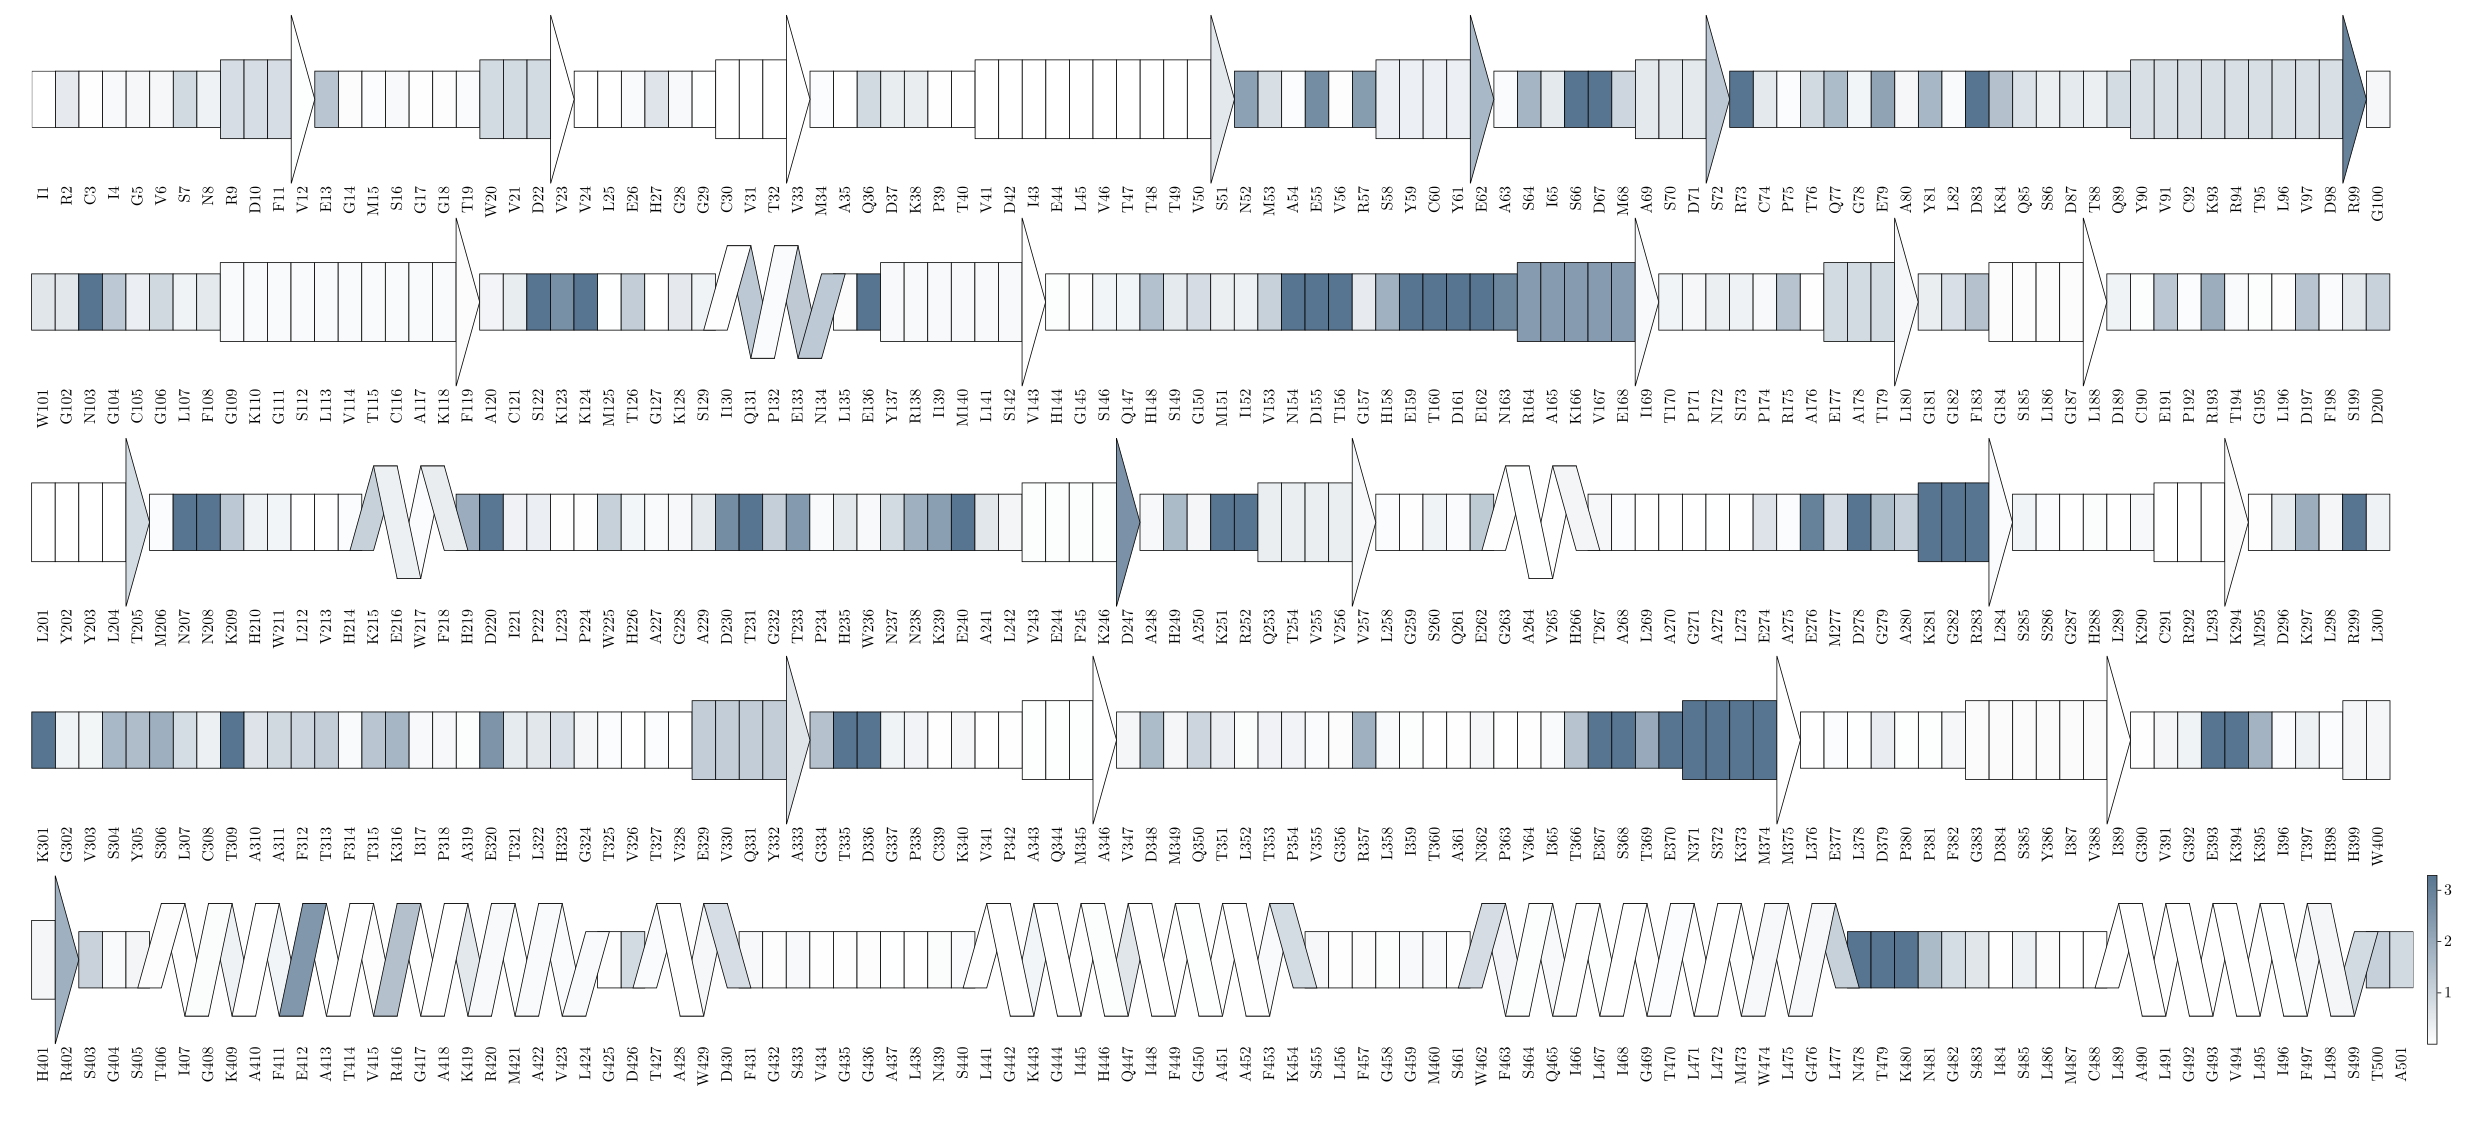
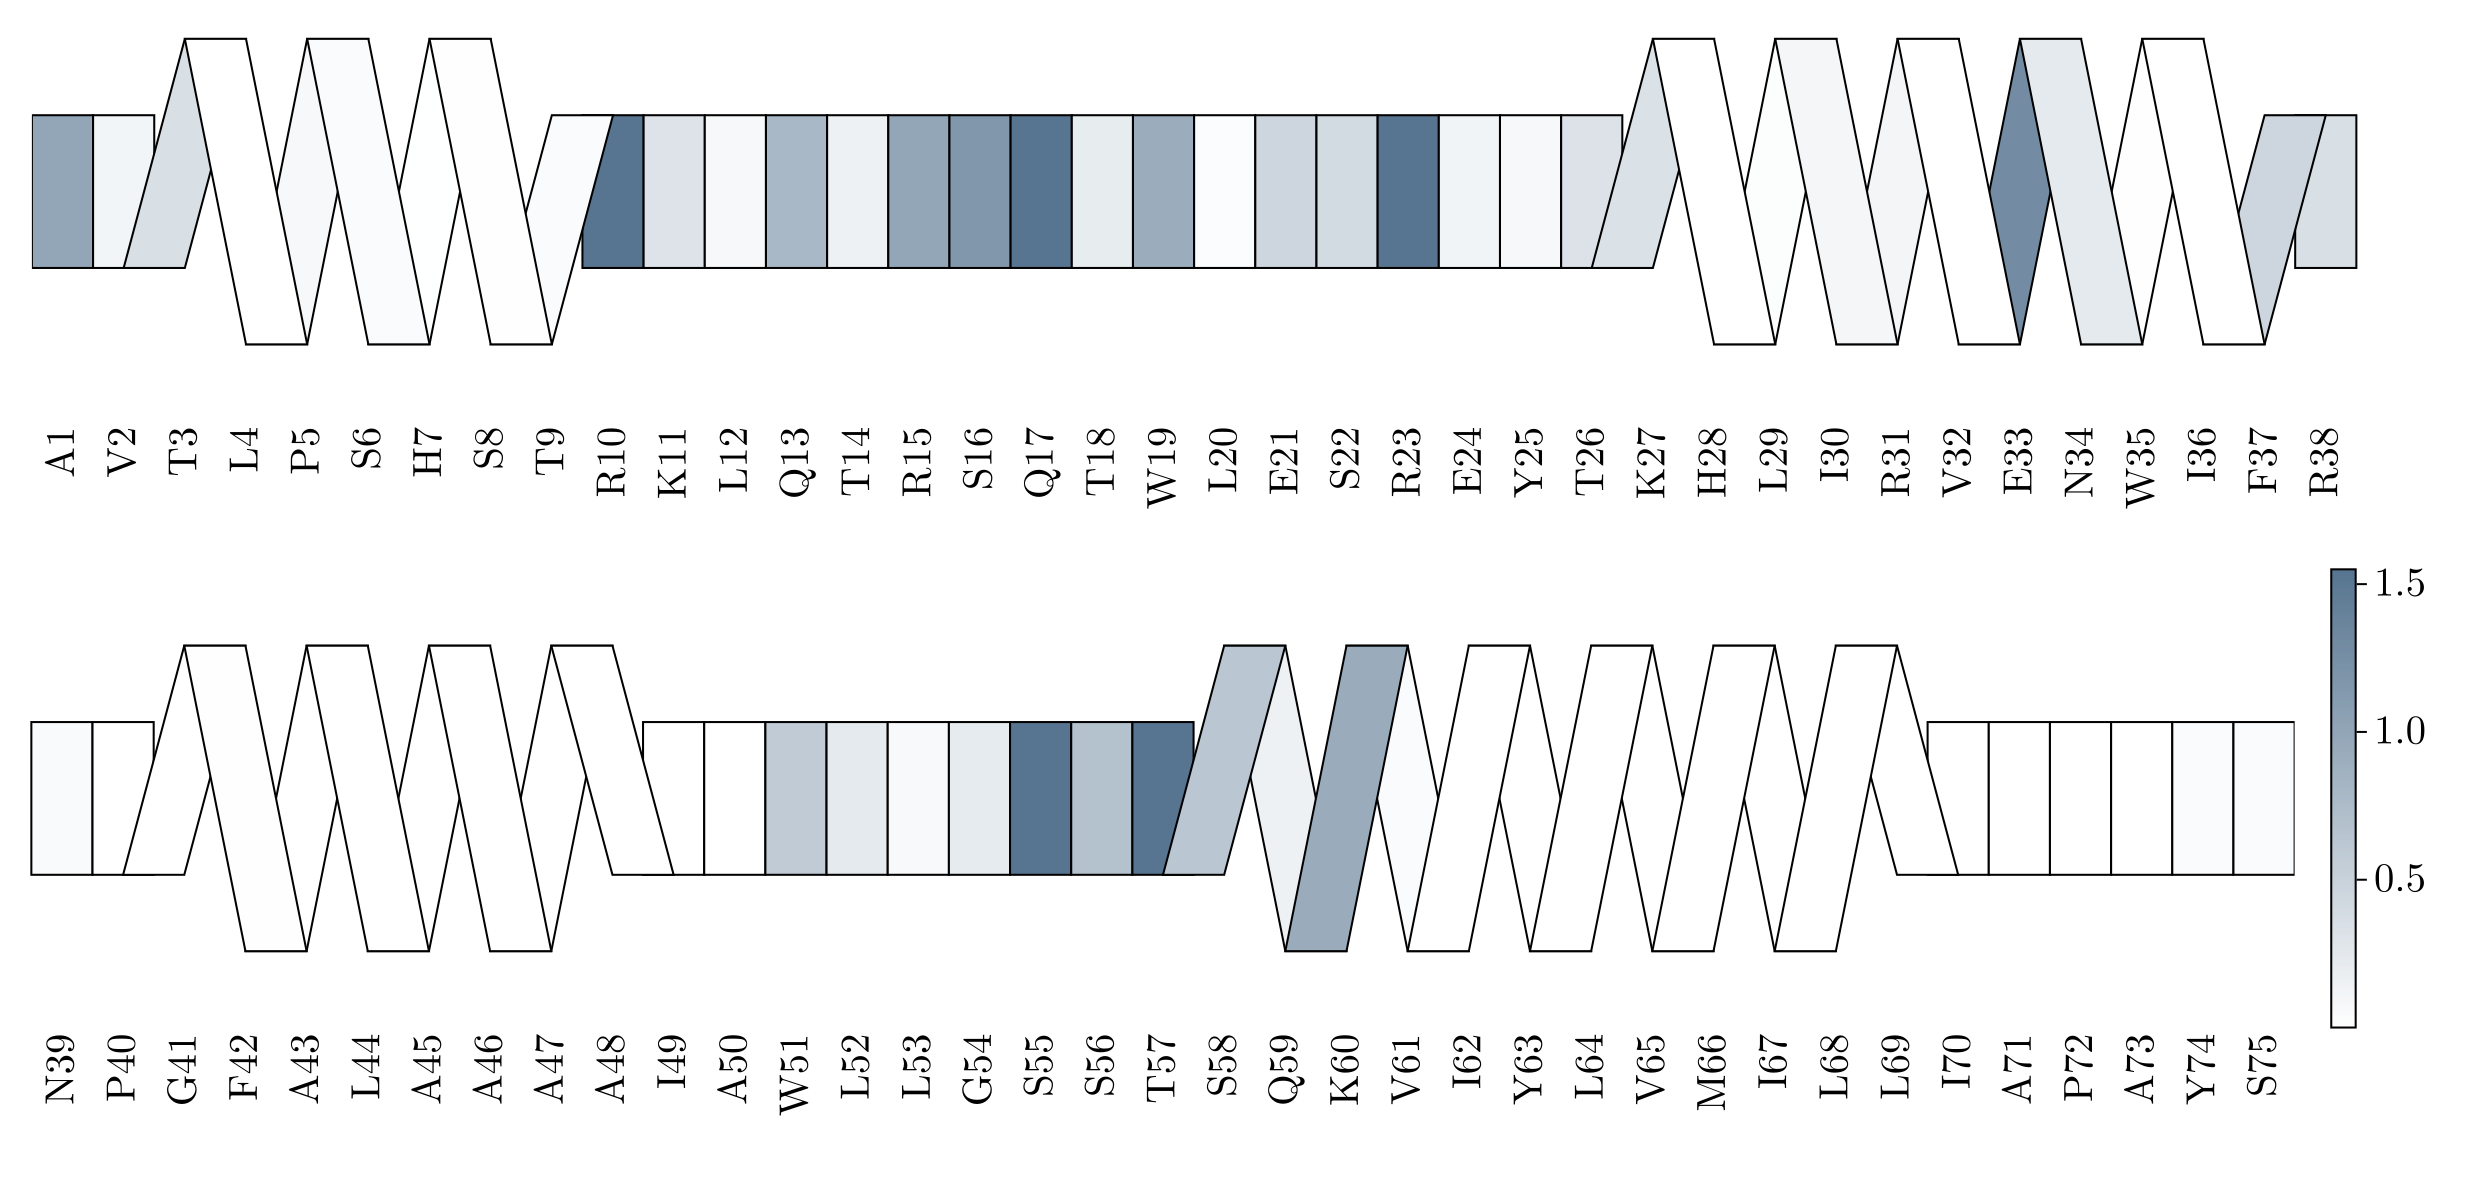
Updated figures

Changed region(s): [[0.0, 0.3422, 0.9935, 0.9644], [0.0, 0.0311, 0.9625, 0.3111]]

diff --git a/docs/src/figures.md b/docs/src/figures.md
@@ -55,35 +55,35 @@
 
 ```@raw html
 <figure style="text-align: center;">
-  <img src="../figures/figures8.gif" style="width:80%">
+  <img src="../figures/figures8.png" style="width:80%">
   <figcaption>Figure S8. </figcaption>
 </figure>
 ```
 
 ```@raw html
 <figure style="text-align: center;">
-  <img src="../figures/figures9.gif" style="width:80%">
+  <img src="../figures/figures9.png" style="width:80%">
   <figcaption>Figure S9. </figcaption>
 </figure>
 ```
 
 ```@raw html
 <figure style="text-align: center;">
-  <img src="../figures/figures10.gif" style="width:80%">
+  <img src="../figures/figures10.png" style="width:80%">
   <figcaption>Figure S10. </figcaption>
 </figure>
 ```
 
 ```@raw html
 <figure style="text-align: center;">
-  <img src="../figures/figures11.gif" style="width:80%">
+  <img src="../figures/figures11.png" style="width:80%">
   <figcaption>Figure S11. </figcaption>
 </figure>
 ```
 
 ```@raw html
 <figure style="text-align: center;">
-  <img src="../figures/figures12.gif" style="width:80%">
+  <img src="../figures/figures12.png" style="width:80%">
   <figcaption>Figure S12. </figcaption>
 </figure>
 ```
